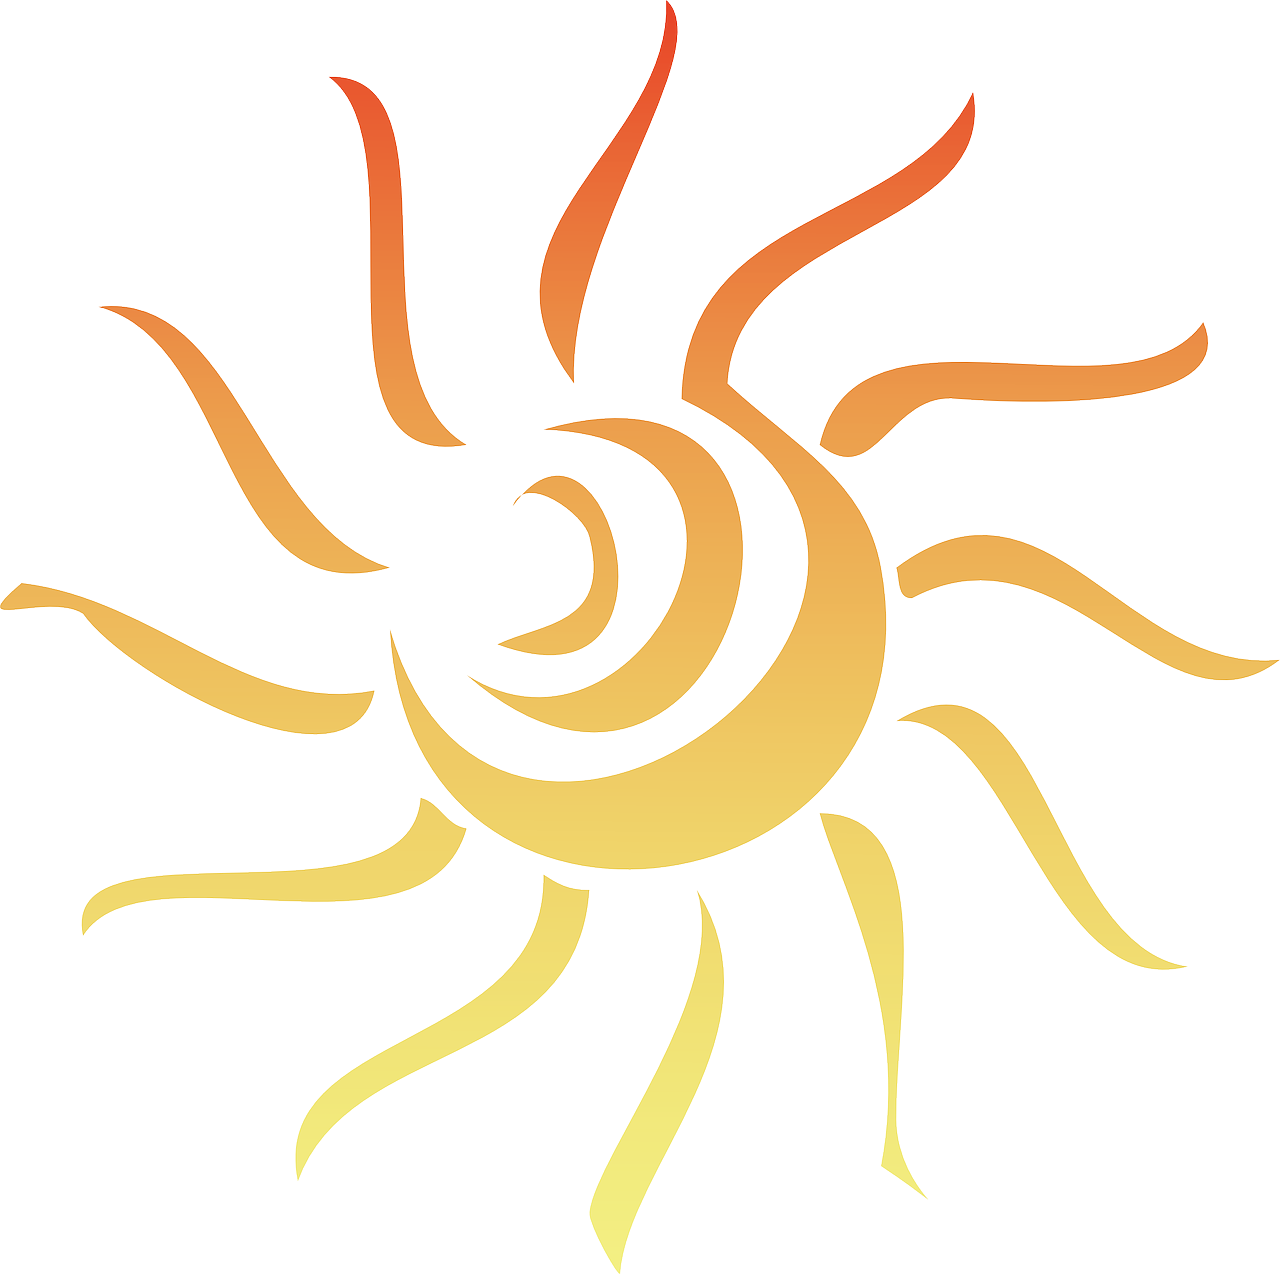
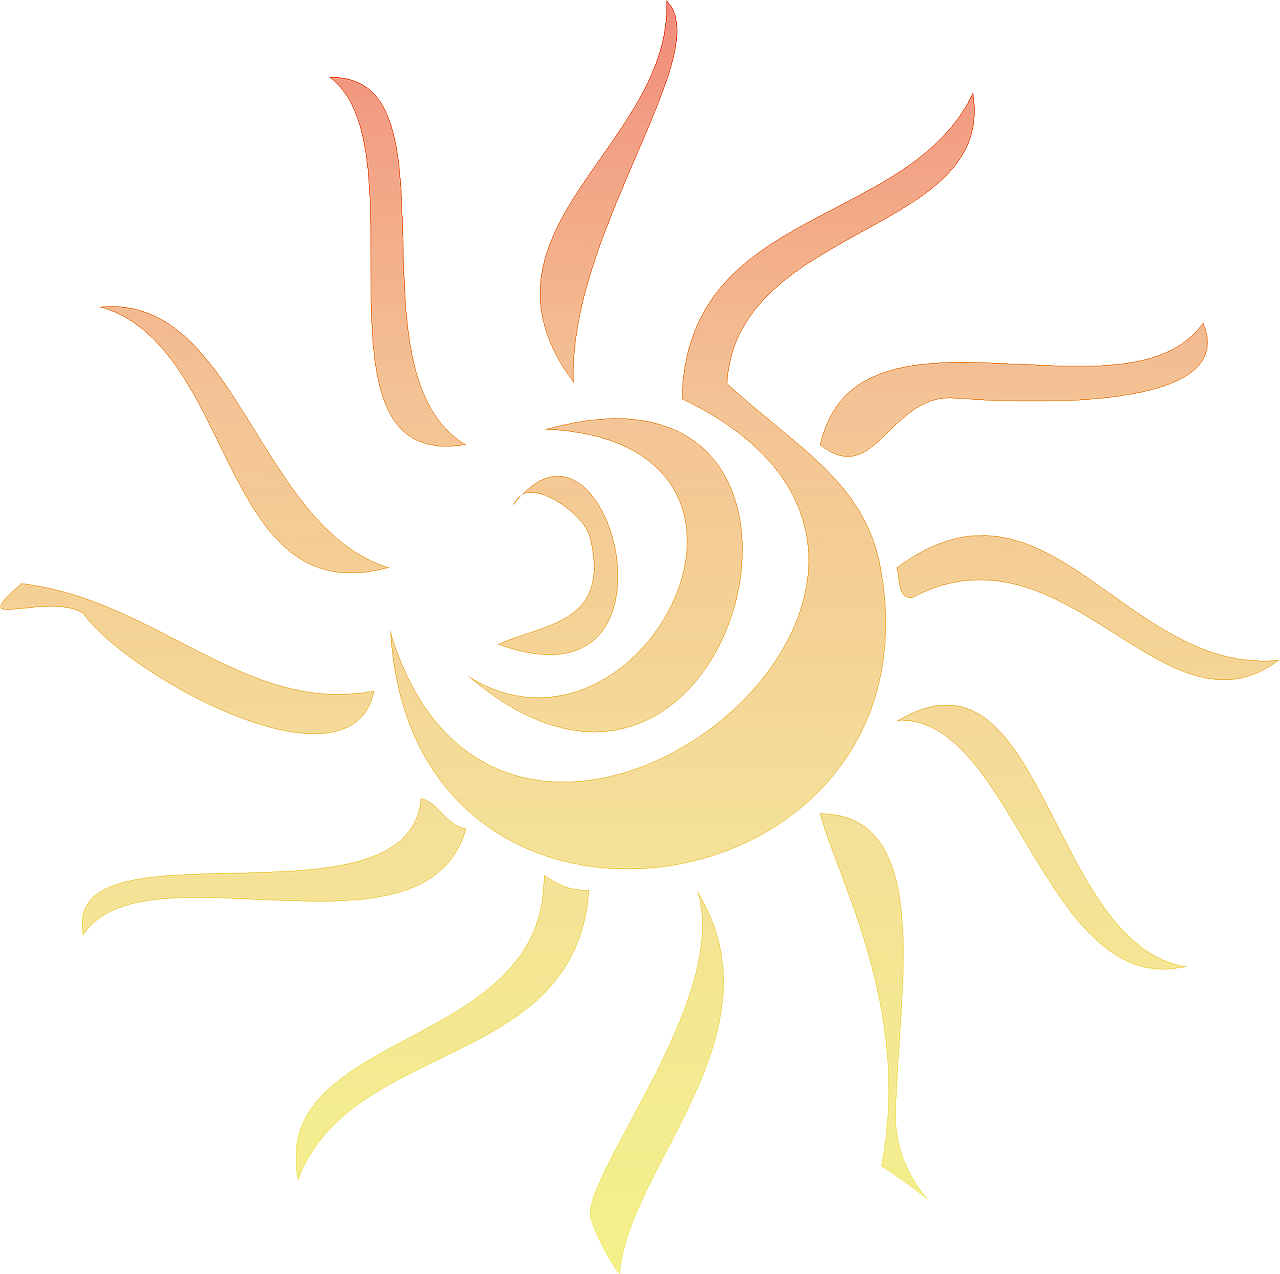
Refatorando para usar css global, sem alteração de acessibilidade e ajuste de imagens

diff --git a/FrontEnd/GeneralStyles/Style.css b/FrontEnd/GeneralStyles/Style.css
@@ -1,0 +1,78 @@
+/*-------------------------General----------------------------------*/
+:root{
+    --font-size: 17px;
+    --header-and-footer-color: black;
+    --background-color: rgba(255,245,238, 0.5);
+    --box-shadow-color: rgba(0, 0, 0, 0.3);
+    --background-color-body: rgb(255,245,238);
+    --background-opacity: 0.8;
+    --background-image: url("/FrontEnd/Imagens/sun.png");
+}
+
+.dark-mode:root {
+    --font-size: 17px;
+    --header-and-footer-color: #E99347;
+    --background-color: rgba(0, 0, 0, 0.3);
+    --box-shadow-color: rgba(255,245,238, 0.5);
+    --background-color-body: black;
+    --background-opacity: 0.95;
+    --background-image: url("/FrontEnd/Imagens/sun-white.png");
+}
+
+* {
+    box-sizing: border-box;
+    margin: 0;
+	padding: 0;
+}
+
+body, html {
+	width: 100%;
+	height: 100%;
+	min-height: 100%;
+	font-family: Verdana, Arial, Helvetica, sans-serif;
+    color: var(--header-and-footer-color);
+	font-size: var(--font-size);
+}
+
+#page { position:relative; }
+
+#content { padding-bottom:130px; } /* FOOTER HEIGHT */
+
+#HeaderTitle, header, footer{
+	text-align: center;
+	font-family: Verdana, Arial, Helvetica, sans-serif bold;
+	color: var(--header-and-footer-color);
+	text-decoration: none;
+}
+
+header, footer{
+	padding: 10px;
+	box-shadow: 0 0 30px var(--box-shadow-color);
+	background-color: var(--background-color);
+  	opacity: var(--background-opacity);
+  	backdrop-filter: blur(5px);
+	width: 100%;
+}
+
+footer { 
+	position:absolute; 
+	bottom: 0px; 
+	box-shadow: 0 0 30px var(--box-shadow-color);
+}
+
+body {
+	background-image: var(--background-image);
+	background-color:var(--background-color-body);
+	background-size: contain;
+	background-repeat: no-repeat;
+	background-position: 50% 0;
+}
+
+
+
+#dark-light{
+	position: absolute;
+	bottom: 5px;
+	right: 20px;
+	cursor: pointer;;
+}

diff --git a/FrontEnd/NaoFeitoAinda.html b/FrontEnd/NaoFeitoAinda.html
@@ -6,8 +6,8 @@
     <meta charset="utf-8">
     <meta name="viewport" content="width=device-width">
     <link rel="icon" type="image/x-icon" href="/FrontEnd/Imagens/sun32.ico">
-    <link rel="stylesheet" type="text/css" href="/FrontEnd/GeneralStyles/StyleLight.css" id="css">
-    <script src="/FrontEnd/GeneralScript.js"></script>
+    <link rel="stylesheet" type="text/css" href="/FrontEnd/GeneralStyles/Style.css" id="css">
+    <script src="/FrontEnd/NewGeneral.js"></script>
 
 
     <!--
@@ -30,8 +30,6 @@
 
         <footer>
             FakeSolar | Telefone: +55 11 91234-5678 | Email: fakesolar@gmail.com 
-    
-            <img src="/FrontEnd/Imagens/olho.png" alt="Ativar Modo de Acessibilidade visual" onclick="alterarAcessibilidade()" id="acessibilidade-imagem">
     
             <img src="/FrontEnd/Imagens/lua-minguante.png" alt="Ativar Modo Dark" onclick="alterarTema()" id="dark-light">
         </footer>

diff --git a/FrontEnd/NewGeneral.js b/FrontEnd/NewGeneral.js
@@ -1,0 +1,13 @@
+
+  function alterarTema() {
+    const html = document.querySelector('html')
+    const imgDark = document.getElementById('dark-light');
+  
+    html.classList.toggle('dark-mode')
+
+    if (html.classList.contains('dark-mode')) {
+        imgDark.src = '/FrontEnd/Imagens/sun32.png';
+      } else {
+        imgDark.src = '/FrontEnd/Imagens/lua-minguante.png';
+      }
+  } 
